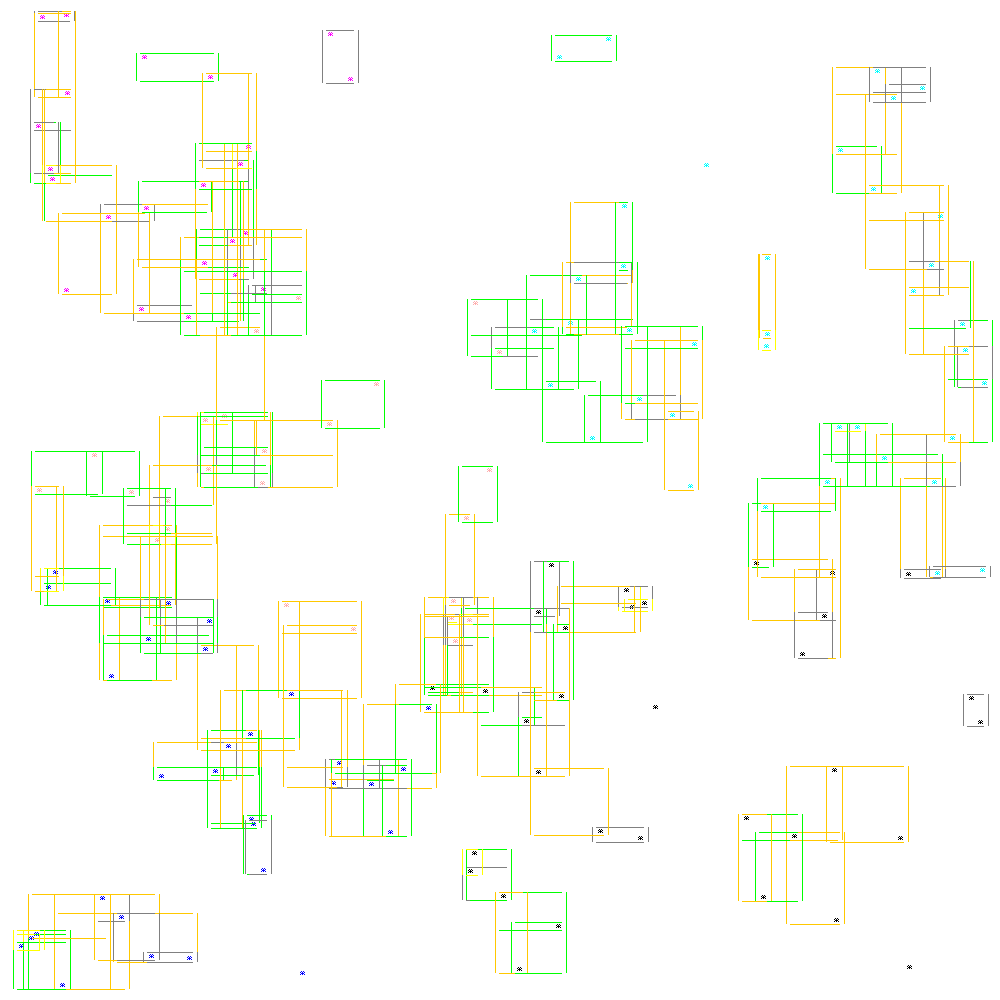
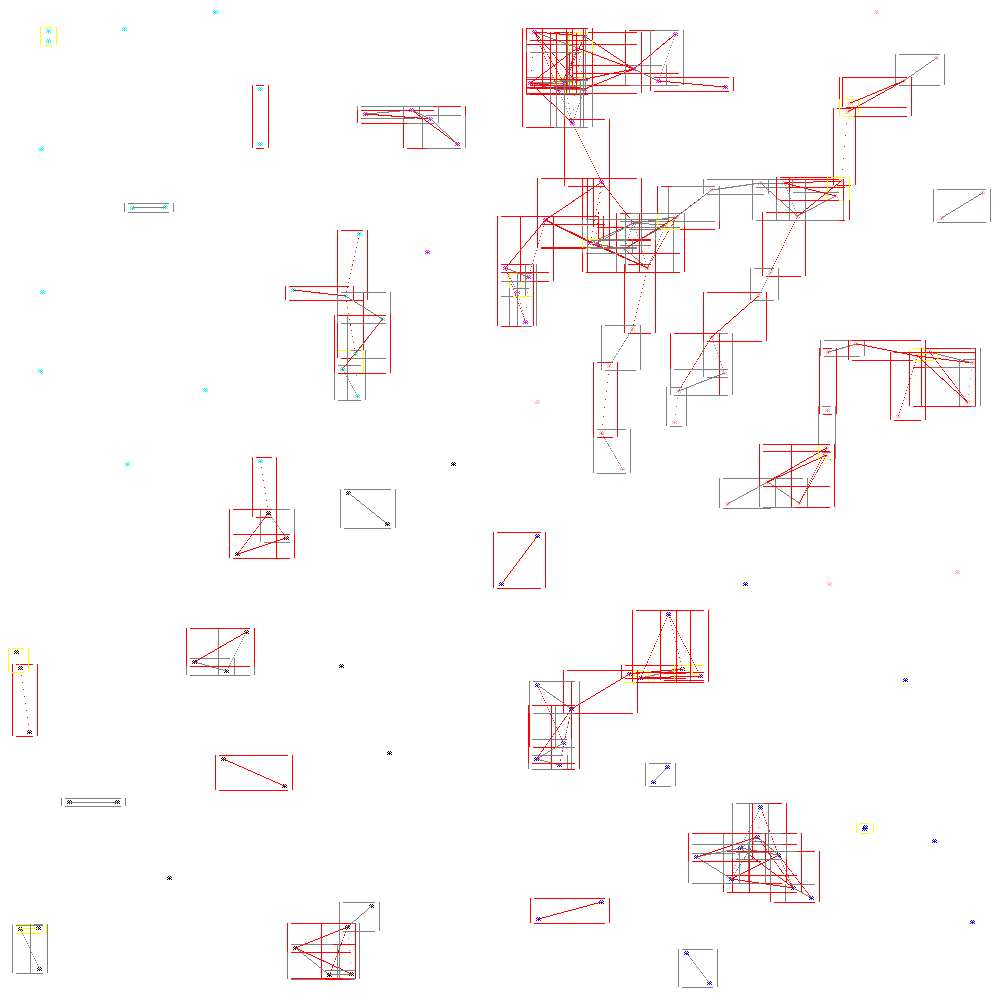
dot join

diff --git a/src/main/java/org/example/Main.java b/src/main/java/org/example/Main.java
@@ -5,12 +5,15 @@ import java.awt.*;
 import java.awt.image.BufferedImage;
 import java.io.*;
 import java.util.ArrayList;
+import java.util.HashMap;
+import java.util.Map;
 import java.util.Random;
 
 public class Main {
     static int height = 1000;
     static int weight = 1000;
     static BufferedImage img;
+    static Map<point, point> neigmatch = new HashMap<>();
     static ArrayList<point> referancePoints = new ArrayList<>();
 
     class point {
@@ -43,13 +46,18 @@ public class Main {
         KmeanStepNext();
         new Main().findNeighbour();
         new Main().NeigbourColorChange();
+     /*   for (Map.Entry<Main.point, Main.point> pointpointEntry:neigmatch.entrySet())
+        {
+            new Main().WriteDoublePoint(pointpointEntry.getKey(),pointpointEntry.getValue());
+        }*/
+
         new Main().run();
 
         System.out.println("Hello world!");
 
     }
 
-    private void writeSquare(int x, int y, int x1, int y1,Color color) {
+    private void writeSquare(int x, int y, int x1, int y1, Color color) {
         int locx = 0;
         int locx1 = 0;
         int locy = 0;
@@ -84,10 +92,59 @@ public class Main {
 
         }
         for (int i = locy; i < locy1; i++) {
-            img.setRGB(locx1 + 4, i,color.getRGB());
+            img.setRGB(locx1 + 4, i, color.getRGB());
 
         }
 
+
+    }
+
+    private void WriteDoublePoint(point w1, point w2,Color color) {
+
+        double pointerx = w1.x;
+        double pointery = w1.y;
+
+        double x = w1.x - w2.x;
+        int a = x > 0 ? -1 : +1;
+        double y = w2.y - w1.y;
+        double c = y / Math.abs(x);
+
+        for (int i = 0; i < Math.abs(x); i++) {
+            pointerx += a;
+            pointery += c;
+            img.setRGB((int) pointerx, (int) pointery, color.getRGB());
+        }
+
+    }
+
+    private boolean NeigbourColorSwitch(point point, point point_, int temp, int value, Color color, boolean square, boolean pointcross, boolean pointallcross) {
+        if (temp < value) {
+            boolean t = false;
+
+            for (Map.Entry<Main.point, Main.point> pointpointEntry : neigmatch.entrySet()) {
+                if (pointpointEntry.getKey().equals(point)) {
+                    if (pointpointEntry.getValue().equals(point_))
+                        t = true;
+                }
+                if (pointpointEntry.getValue().equals(point)) {
+                    if (pointpointEntry.getKey().equals(point_))
+                        t = true;
+                }
+
+            }
+            if (!t && pointcross) {
+
+                neigmatch.put(point, point_);
+                neigmatch.put(point_, point);
+                new Main().WriteDoublePoint(point, point_,color);
+            }
+            if (pointallcross)
+                new Main().WriteDoublePoint(point, point_,color);
+            if (square)
+                writeSquare(point.x, point.y, point_.x, point_.y, color);
+            return true;
+        } else
+            return false;
 
     }
 
@@ -96,16 +153,12 @@ public class Main {
         for (point point : randompoints) {
             for (point point_ : point.neighbours) {
                 int temp = pisagor(point.x, point.y, point_.x, point_.y);
-                if (temp < 20) {
-                    writeSquare(point.x, point.y, point_.x, point_.y,Color.YELLOW);
+                if (NeigbourColorSwitch(point, point_, temp, 20, Color.YELLOW,true,true,true)) ;
+                else if (
+                        NeigbourColorSwitch(point, point_, temp, 50, Color.GRAY,true,true,true)) ;
+                else if (NeigbourColorSwitch(point, point_, temp, 70, Color.RED,true,true,true)) ;
+                else if (NeigbourColorSwitch(point, point_, temp, 70, Color.green,true,true,true)) ;
 
-                }
-                else if (temp<50)
-                    writeSquare(point.x, point.y, point_.x, point_.y,Color.gray);
-                else if (temp<70)
-                    writeSquare(point.x, point.y, point_.x, point_.y,Color.green);
-                else if (temp<100)
-                    writeSquare(point.x, point.y, point_.x, point_.y,Color.ORANGE);
 
             }
 
